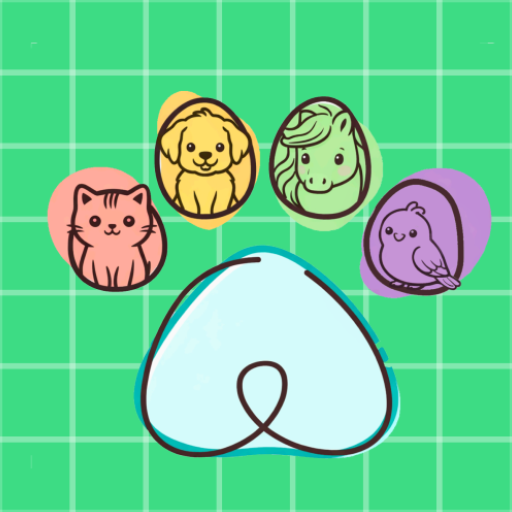
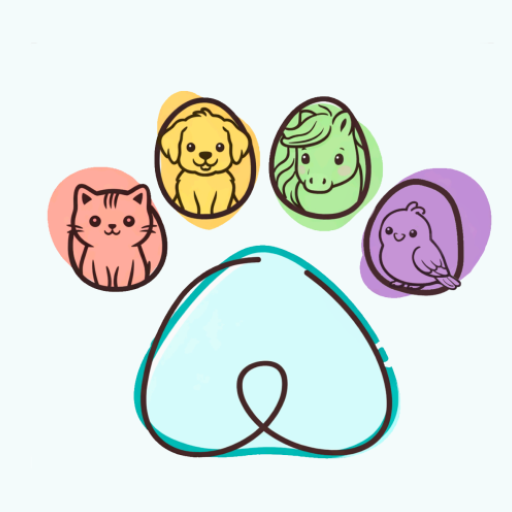
ntento splash

diff --git a/app/src/main/java/com/aipasa/Splash.java b/app/src/main/java/com/aipasa/Splash.java
@@ -1,17 +1,21 @@
 package com.aipasa;
 
-import android.content.Intent;
-import android.graphics.drawable.ColorDrawable;
+import android.animation.ObjectAnimator;
+import android.animation.AnimatorSet;
+import android.animation.AnimatorListenerAdapter;
+import android.graphics.Path;
 import android.os.Bundle;
-import android.os.Handler;
-import android.view.animation.Animation;
-import android.view.animation.AnimationUtils;
+import android.util.DisplayMetrics;
+import android.view.View;
+import android.view.animation.AccelerateDecelerateInterpolator;
+import android.view.animation.BounceInterpolator;
+import android.view.animation.LinearInterpolator;
 import android.widget.ImageView;
+import android.content.Intent;
 
 import androidx.appcompat.app.AppCompatActivity;
 
 import com.bumptech.glide.Glide;
-import com.bumptech.glide.load.engine.DiskCacheStrategy;
 import com.bumptech.glide.load.resource.drawable.DrawableTransitionOptions;
 
 public class Splash extends AppCompatActivity {
@@ -20,34 +24,60 @@ public class Splash extends AppCompatActivity {
     protected void onCreate(Bundle savedInstanceState) {
         super.onCreate(savedInstanceState);
         setContentView(R.layout.splash);
+
         if (getSupportActionBar() != null) {
             getSupportActionBar().hide();
         }
 
-
         ImageView logo = findViewById(R.id.img);
 
+        // Obtener tamaño pantalla
+        DisplayMetrics dm = getResources().getDisplayMetrics();
+        float ancho = dm.widthPixels;
+        float alto = dm.heightPixels;
 
-        Animation starAnim = AnimationUtils.loadAnimation(this, R.anim.trans_icon);
+        // Path con entrada lateral, rebote y subida final
+        Path path = new Path();
 
-        starAnim.setAnimationListener(new Animation.AnimationListener() {
+        // 1⃣ Entrada desde lateral izquierda (fuera de pantalla)
+        path.moveTo(-logo.getWidth(), alto * 0.75f); // empieza fuera de la pantalla a la izquierda
+
+        // 2⃣ Rebote tipo U horizontal hacia el centro
+        path.cubicTo(ancho * 0.5f, alto * 0.8f,   // primer control punto (sube un poco)
+                ancho * 0.4f, alto * 0.7f,   // segundo control punto (baja un poco)
+                ancho * 0.5f, alto * 0.75f); // fin del rebote en el medio
+
+        // 3⃣ Subida final vertical hasta el centro final
+        path.lineTo(ancho * 0.5f, alto * 0.4f);
+
+        // Animación de posición siguiendo el path
+        ObjectAnimator mover = ObjectAnimator.ofFloat(logo, View.X, View.Y, path);
+        mover.setDuration(2200);
+        mover.setInterpolator(new AccelerateDecelerateInterpolator());
+
+        // Rotación opcional para más estilo
+        ObjectAnimator rotar = ObjectAnimator.ofFloat(logo, "rotation", 0f, 360f);
+        rotar.setDuration(2200);
+        rotar.setInterpolator(new LinearInterpolator());
+
+// AnimatorSet para ejecutar ambas animaciones juntas
+        AnimatorSet animSet = new AnimatorSet();
+        animSet.playTogether(mover, rotar);
+
+        animSet.addListener(new AnimatorListenerAdapter() {
             @Override
-            public void onAnimationStart(Animation animation) {}
-
-            @Override
-            public void onAnimationEnd(Animation animation) {
-                // Ir al Login cuando termine la animación
+            public void onAnimationEnd(android.animation.Animator animation) {
                 Intent intent = new Intent(Splash.this, Login.class);
                 startActivity(intent);
                 overridePendingTransition(android.R.anim.fade_in, android.R.anim.fade_out);
                 finish();
             }
-
-            @Override
-            public void onAnimationRepeat(Animation animation) {}
         });
 
-        logo.startAnimation(starAnim);
+        animSet.start();
+
+
+        animSet.start();
 
         // Fondo con Glide
         ImageView mSea = findViewById(R.id.backView);
